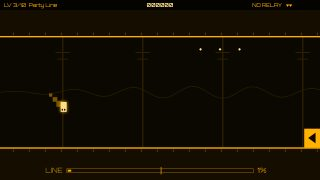
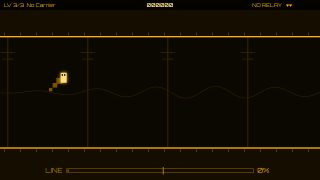
Give Carrier Lost three levels and a restored-carrier ending (ni3)
Dial Tone (spikes, breaks, sliders), Line Noise (noise bursts, swinging
blocks, zigzags) and No Carrier (every hazard plus jammed zones, double
speed and dropouts) replace the ten-level table; a casual-timing bot
clears the finale about nine times in ten. The ending turns a noisy trace
into a clean carrier, lights the poles and fires amber fireworks.

Claude-Session: https://claude.ai/code/session_016R86i3evNakTHXcnyVkEfD

diff --git a/internal/generator/templates/themes/retro/game.js b/internal/generator/templates/themes/retro/game.js
@@ -4,7 +4,10 @@
  * A data packet runs by itself along a phone-line corridor; SPACE flips
  * gravity between the floor wire and the ceiling wire. Spikes, breaks in the
  * wire, sliding blocks, swinging blocks and bursts of line noise kill. Reach
- * the far end of the line; a relay halfway is the checkpoint.
+ * the far end of the line; a relay halfway is the checkpoint. Three levels:
+ * plain wire hazards, then line noise, swinging blocks and zigzags, then
+ * the finale with jammed zones, double speed and dropouts as well. Clearing
+ * it restores the carrier: the ending scene shows the signal coming back.
  *
  * It is a one-button game. On a phone (coarse pointer) the pad shows only
  * FLIP, and a tap anywhere on the picture flips as well; a mouse click does
@@ -44,23 +47,15 @@
     // hazards on the lane the packet is NOT on (they punish flipping by
     // rhythm). kinds: pattern weights.
     // The numbers are tuned with a bot that presses mid-window with Gaussian
-    // timing error (0.15s, a casual player): it clears level 7 about nine
-    // times in ten and level 10 about seven in ten. `react` therefore falls
-    // gently; speed, the mix of kinds and the stretches carry the rest of
-    // the rise. Level 8 is not much
-    // wider than level 9 because its double-speed stretches hold only plain
-    // hazards and would otherwise be a rest.
+    // timing error (0.15s, a casual player): it clears levels 1 and 2 every
+    // time and the finale about nine times in ten. Level 1 teaches the flip
+    // on plain hazards and sliders; level 2 adds line noise, swinging blocks
+    // and zigzags; the finale has every kind plus jammed zones, double-speed
+    // and dropout stretches, so speed and the mix carry the rise, not `react`.
     var LEVELS = [
-        { v: 270, secs: 46, react: 1.10, tight: 0.6, keep: 0, kinds: { spike: 1 } },
-        { v: 290, secs: 50, react: 0.95, tight: 0.6, keep: 0.12, kinds: { spike: 3, gap: 3 } },
-        { v: 310, secs: 54, react: 0.85, tight: 0.6, keep: 0.15, kinds: { spike: 2, gap: 2, slider: 3 } },
-        { v: 325, secs: 57, react: 0.75, tight: 0.6, keep: 0.18, kinds: { spike: 2, gap: 2, slider: 1, burst: 3 } },
-        { v: 340, secs: 60, react: 0.70, tight: 0.90, keep: 0.20, kinds: { spike: 2, gap: 2, slider: 1, burst: 1, zig: 3 } },
-        { v: 350, secs: 62, react: 0.66, tight: 0.75, keep: 0.22, kinds: { spike: 2, gap: 2, slider: 1, burst: 1, zig: 1, mover: 4 } },
-        { v: 360, secs: 64, react: 0.60, tight: 0.80, keep: 0.22, kinds: { spike: 2, gap: 2, slider: 1, burst: 1, zig: 1, mover: 1, jam: 4 } },
-        { v: 370, secs: 68, react: 0.54, tight: 0.70, keep: 0.26, kinds: { spike: 2, gap: 2, slider: 1, burst: 1, zig: 1, mover: 1, jam: 1, turbo: 1.5 } },
-        { v: 380, secs: 70, react: 0.48, tight: 0.65, keep: 0.28, kinds: { spike: 2, gap: 2, slider: 1, burst: 1, zig: 1, mover: 1, jam: 1, fog: 2 } },
-        { v: 395, secs: 78, react: 0.36, tight: 0.60, keep: 0.30, kinds: { spike: 2, gap: 2, slider: 2, burst: 2, zig: 2, mover: 2, jam: 2, turbo: 1.5, fog: 1.5 } }
+        { v: 280, secs: 52, react: 1.00, tight: 0.6, keep: 0.10, kinds: { spike: 3, gap: 2, slider: 2 } },
+        { v: 320, secs: 62, react: 0.80, tight: 0.75, keep: 0.18, kinds: { spike: 2, gap: 2, slider: 1, burst: 3, zig: 2, mover: 3 } },
+        { v: 355, secs: 72, react: 0.64, tight: 0.75, keep: 0.24, kinds: { spike: 2, gap: 2, slider: 1, burst: 1, zig: 1, mover: 1, jam: 2.5, turbo: 1.5, fog: 1.5 } }
     ];
     // Every kind a level enables appears at least once before the relay and
     // once after it, whatever the seed rolls. The slots of a half are spread
@@ -780,6 +775,48 @@
         drawMessages(s, ctx);
     }
 
+    // The ending: the carrier comes back. A noisy trace settles into a clean
+    // sine with the packet riding it, and the poles along the line light up
+    // one by one. Everything follows from e.t: the noise is a hash, not
+    // random state, so the scene keeps nothing of its own.
+    var POLE_GAP = 120;
+
+    function hash(n) { var h = Math.sin(n * 12.9898) * 43758.5453; return h - Math.floor(h); }
+
+    function drawCarrier(ctx, t) {
+        var clean = Math.min(1, t / 2.5), frame = Math.floor(t * 20), y0 = 346;   // between score and buttons
+        ctx.strokeStyle = HOT; ctx.lineWidth = 3;
+        ctx.beginPath();
+        for (var x = 0; x <= G.W; x += 8) {
+            var y = y0 + Math.sin(x * 0.035 - t * 7) * 18 * clean + (hash(x + frame * 131) - 0.5) * 56 * (1 - clean);
+            if (x) ctx.lineTo(x, y); else ctx.moveTo(x, y);
+        }
+        ctx.stroke();
+        var px = (t * 260) % (G.W + 40) - 20;
+        ctx.fillStyle = HOT;
+        ctx.fillRect(px - PS / 2, y0 + Math.sin(px * 0.035 - t * 7) * 18 * clean - PS / 2, PS, PS);
+    }
+
+    function drawPoles(ctx, t) {
+        for (var i = 0; i * POLE_GAP < G.W; i++) {
+            var x = 60 + i * POLE_GAP, lit = t > 0.6 + i * 0.18;
+            ctx.fillStyle = DIM;
+            ctx.fillRect(x - 2, 518, 4, G.H - 518);
+            ctx.fillRect(x - 18, 524, 36, 3);
+            ctx.fillStyle = lit ? HOT : DARK;
+            ctx.fillRect(x - 5, 510, 10, 8);
+        }
+        ctx.fillStyle = AMBER;
+        ctx.fillRect(0, 522, G.W * Math.min(1, t / 2.4), 2);
+    }
+
+    var ENDING = {
+        title: 'CARRIER RESTORED',
+        text: 'CONNECT 2400 · the line is yours',
+        colors: [HOT, AMBER, '#fff3c4', MIDC],
+        draw: function (e, ctx) { drawCarrier(ctx, e.t); drawPoles(ctx, e.t); }
+    };
+
     function hud(s) {
         var z = zoneAt(s, 'jam') ? '  JAMMED' : (zoneAt(s, 'turbo') ? '  2X' : '');
         return (s.cp ? 'RELAY OK' : 'NO RELAY') + z;
@@ -793,7 +830,7 @@
             'UP / DOWN keys: straight to the ceiling / floor wire',
             'The relay halfway is your checkpoint and restores one life'
         ],
-        levelNames: ['Dial Tone', 'Handshake', 'Party Line', 'Line Noise', 'Crosstalk', 'Switchboard', 'Jammer', 'Overclock', 'Dropout', 'No Carrier'],
+        levelNames: ['Dial Tone', 'Line Noise', 'No Carrier'],
         colors: { bg: BG, fg: AMBER, accent: HOT, dim: DIM },
         lives: 3,
         music: {
@@ -807,7 +844,7 @@
             drums: { k: 'x..x..x...x.x...', s: '....x.......x..x', h: 'x.xxx.xxx.xxx.xx' },
             leadWave: 'square', bassWave: 'triangle', arpWave: 'square', leadOct: 2
         },
-        init: init, update: update, draw: draw, hud: hud,
+        init: init, update: update, draw: draw, hud: hud, ending: ENDING,
         // One button: FLIP alone is a big target, and the canvas is another.
         touch: { a: 'FLIP', hide: ['left', 'right', 'up', 'down', 'b'] }
     });

diff --git a/integrationtests/games/retro-bot.js b/integrationtests/games/retro-bot.js
@@ -12,7 +12,7 @@
         // the previous opposite-lane obstacle behind. Only normal FLIP input.
         return { a: s.x >= at - s.v * 0.12 };
     }
-    for (var level of [1, 5, 10]) {
+    for (var level of [1, 2, 3]) {
         G.debug.start(level);
         var ticks = 0;
         while (ticks++ < 14000 && G.debug.state().screen === 'play') {

diff --git a/docs/games.md b/docs/games.md
@@ -645,9 +645,15 @@ Fast driving minor music.
 Amber monochrome. A data packet runs automatically along a phone line
 corridor; `SPACE` flips gravity between floor and ceiling. Spikes, gaps,
 sliding blocks and noise bursts kill. Reach the end of the line (a distance
-goal, with a progress bar); a checkpoint halfway. Levels: faster scroll,
-tighter patterns, moving blocks, zones where flipping is jammed for a moment,
-double-speed stretches, level 10 mixes all. Deterministic layouts. Modem
+goal, with a progress bar); a relay halfway is the checkpoint and hands back
+a life, and the flip windows narrow after it. Deterministic layouts with a
+guaranteed reaction window per flip. Levels: 1 *Dial Tone* — spikes, breaks
+and sliding blocks at an easy pace; 2 *Line Noise* — faster, with noise
+bursts that flicker a warning first, swinging blocks and zigzags; 3 *No
+Carrier* — the finale mixes every hazard with jammed zones (no flipping),
+double-speed stretches and dropouts that hide the far line. The ending
+("CARRIER RESTORED"): a noisy trace settles into a clean carrier with the
+packet riding it, the poles along the line light up, amber fireworks. Modem
 handshake noises, chiptune pentatonic music.
 
 ### retrofuture — Atomic Defense (missile command)
